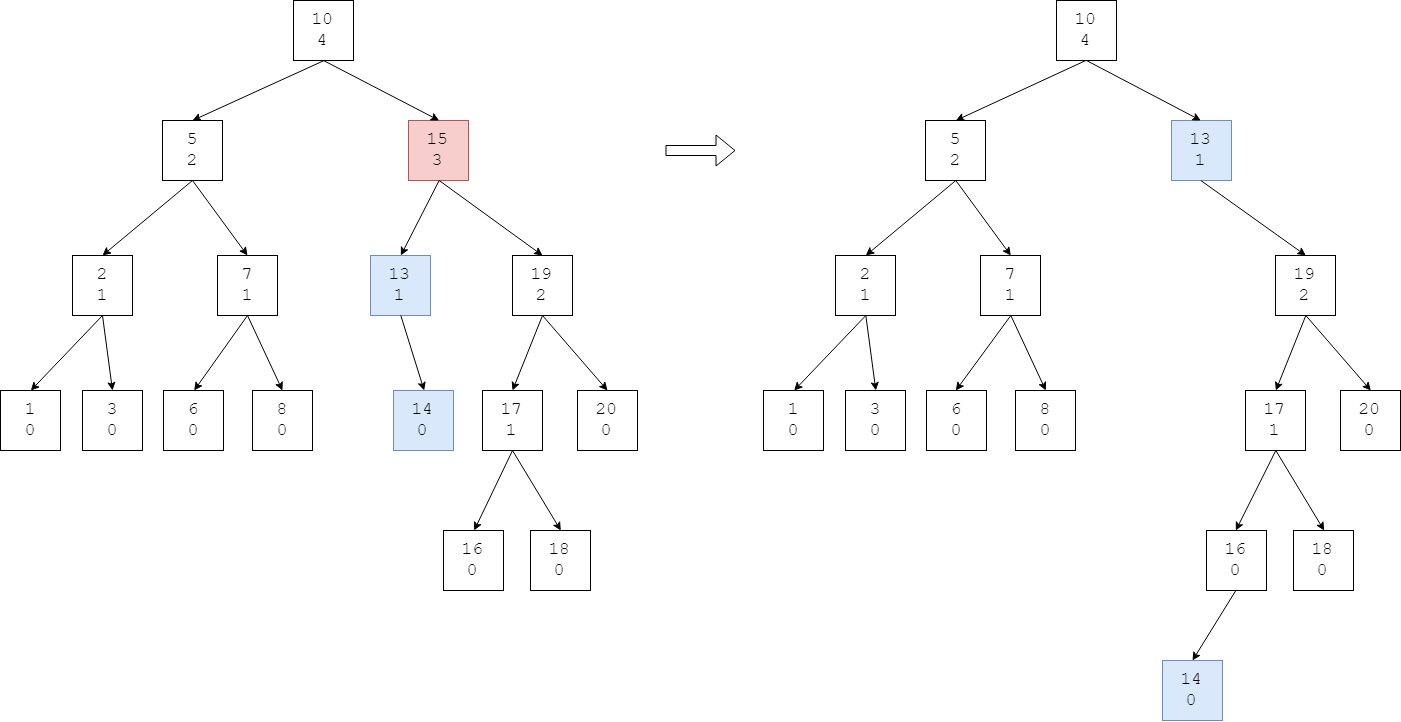
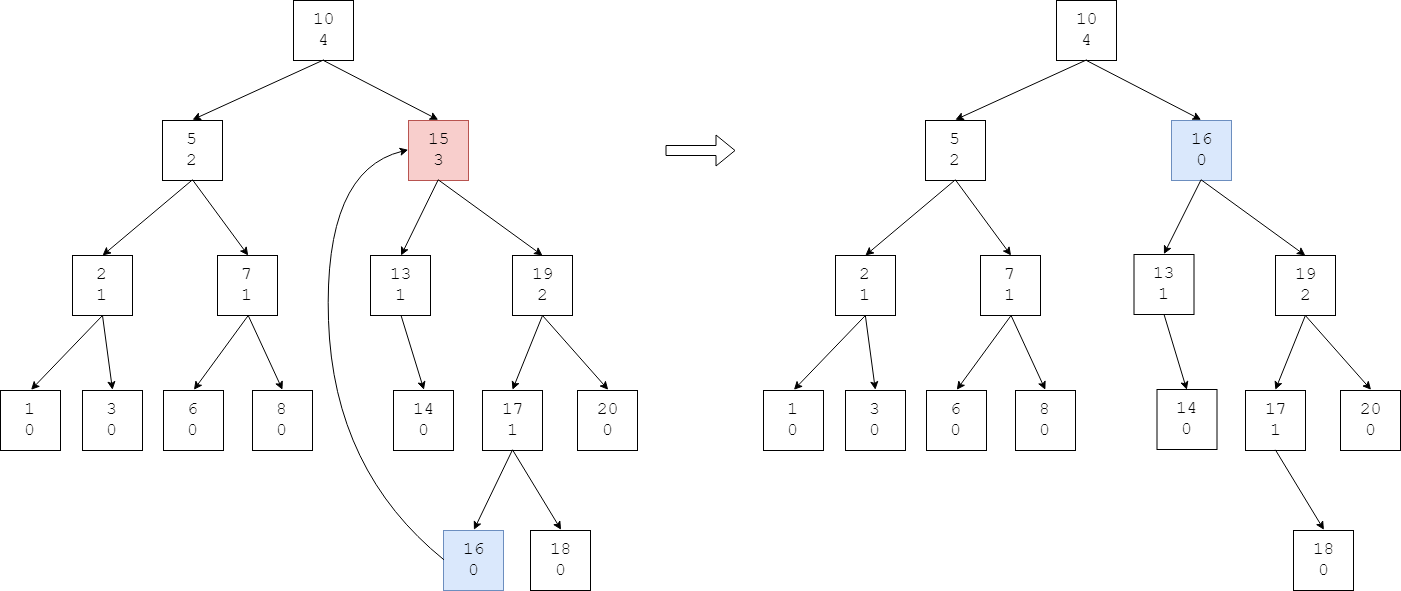
fix avl tree erase part doc and picture

diff --git a/docs/DataStructure/AVLTree/README.md b/docs/DataStructure/AVLTree/README.md
@@ -58,7 +58,7 @@ $$ (5) $$ 平衡因子为$$ factor_{15} = \lvert height_{13} - height_{19} \rver
 
 $$ (6) $$ 平衡因子为$$ factor_{10} = \lvert height_{5} - height_{15} \rvert = \lvert 2 - 3 \rvert = 1 $$，更新节点$$ 10 $$的高度值$$ height_{10} = max(height_{5},height_{15}) + 1 = max(2,3) + 1 = 4 $$；
 
-接下来我们从该AVL树中删除节点$$ 15 $$，仍然优先选择用$$ 15 $$左孩子节点代替它，将$$ 14 $$插入到$$ 19 $$的左子树中。显然这次插入又破坏了AVL树的平衡性，需要再从$$ 14 $$向上依次进行旋转操作。
+接下来我们从该AVL树中删除节点$$ 15 $$，选择$$ 15 $$的中序遍历后继节点$$ 16 $$代替它，然后删除真正的$$ 16 $$。
 
 ![AVLTree13.png](../res/AVLTree13.png)
 
